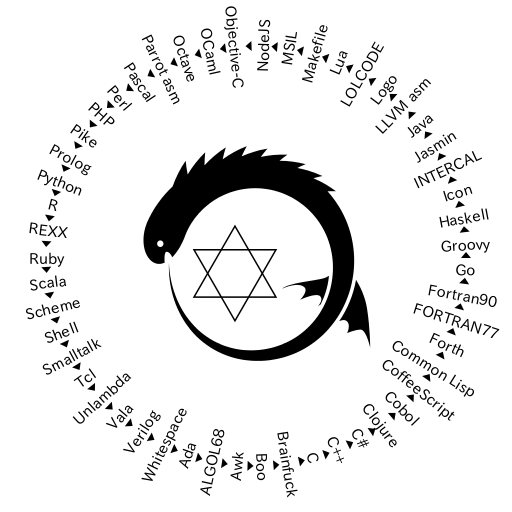
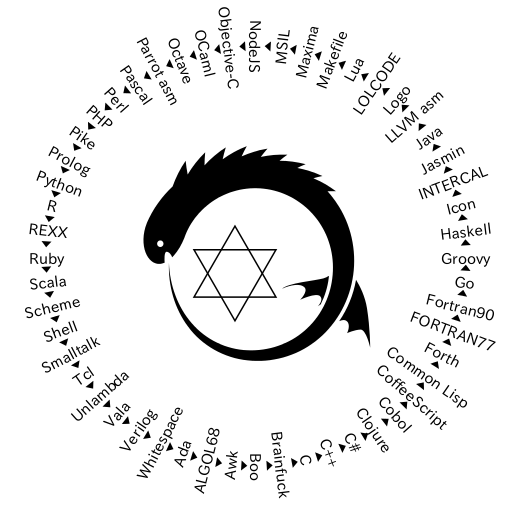
* the 52nd language: Maxima

Changed region(s): [[0.0312, 0.0, 0.9688, 0.9688], [0.0625, 0.4375, 0.0938, 0.4688]]

diff --git a/QR.rb b/QR.rb
@@ -20,34 +20,34 @@ trea                      m"}`n.method~public~static~ma!([L#{S="java/lang/"}SJ;)
 ack                     ~2`ngetstatic~#{S}Sy stem/out~L#$T;`nldc~"#{e[%(class~QR{pu             blic~static~v
 oid                    ~ma!(SJ[]v){SJ~c[]=n   ew~SJ[8000],y="",z=y,s="#{z=t=(0..r=q=1            26).map{|n|[
 n,                    []]};a="";b=->n{a<<(  n  %78+55)%84+42};(%(@s=global[#{i=(s=%(PR            ~"`x48AI^~1
-.2                   ~PR~"VISIBLE^~"#{Q["  Z"+  E[%(all:`n`t@Zf~%s~"#{e[%(.assembly~t{            }.method~st
-at       ic         ~void~MX{.entrypo!t~  ldstr  "#{e["require('util').Z#{E["#import"+M            ["Z_sJ"+E[
-"Z                 f"+E[%(say"#{e["#$D(  output)  ;beg!~H(#{((p="eval";%($_="#{s=%(<?php           ~function~
-f($               n){retur                                     n~str_repeat("Y",$n);};$f           ="f";echo#
-{V[Q        [E[  "!t~mX{H#{  E["qr:-  H('#{Q[e[%(fo  r~l~!#{  E[e[d[%(eval$s=%q(#$s))]]]}          .split("Yn
-"):Z(       'cat("say~Y"'+l+  'Y"Yn  ")'))],?']}')."  ]};re  turn~0;}"]],"{$f(",")}"]}?>)          ;(s+N*(-s.
-size%6))   .unpack("B*")[0].K  (/.  {6}/){n=$&.to_i~2  ;((  n+14)/26*6+n+47).chr}}";s|.|$          n=ord$&;su
-bstr~unpack(B8 ,chr$n-!t($n/32  )  *6-41),2|eg;Z~pack"  B  *",$_).scan(/[~,-:A-z]+|(.)/){          p="s++#{$1
-?"chr~#{$1.ord }+e":$&+?+};"+p}   ;p)).K(/.{1,255}/){|s   |"'#{s}',"}}'')end."]}"`nend)+N          ]]]]}"]}"c
-all~void~[msco rlib]System.Con  s  ole::Write(sJ)ret})  ]  }")].K(/[:"]/,":^0"),/[~     Y          `t;"(){}`[
-`]]/]}"~PR~"`x  4bT`x48`x58B`  x59  E~B`x59E)).size+1  }x~  i8]c"#{s.K(/               [          ^  "]/){"^%
-`x58"%$&.ord}}^ 00"declare~i  32@pu  ts(i8*)def!e~i3  2@mX{  %1=call~                  i          3   2@puts(
-i8*getelementpt  r([#{i}x~i  8]*@s,i  32~0,i32~0))r  et~i32~  0})).bytes{|n|          r          ,     z=z[n]
-||(b[r/78];b[r]; q<6083&&z                                     [n]=[q+=1,[]           ]          ;      t[n])
-};b[r/78];b[r]}"  ;!t~i=0,n=0,q=0;for(;  ++n<126  ;)c[n]=""+(char)n;for(;i< s.length (          )       ;){q=
-q*78+(s.charAt(i)  -13)%84;if(i++%2>0){y  =q<n?  c[q]:y;c[n++]=z+y.charAt(0);System .          o         ut.Z
-(z=c[q]);q=0;}}}})  ]}"`n!vokevirtual~#$T  /Zl  n(L#{S}SJ;)V`nreturn`n.end~method)+N          ]          };H(
-"DO,1<-#"||*s);s?wh  ile~t:=ord(move(1))do  {  i+:=1;u:=-i;every~0to~7do{u:=u*2+t%2          ;           t/:=
-2};H("PLEASE")^(i%4/   3);H("DO,1SUB#"||i||   "<-#"||((c-u)%256));c:=u;};H("PLEAS           E             REA
-DOUT,1^nPLEASEGIVEUP"   );end)]).tr(B,?&)]}' .tr('&','YY');)]};})]}"~DUP~FOR~S"~           &              A,&
-"~C~NE`x58T~S^"~&A)^",    &"~C~0~DO~B~."~&char("~COUNT~.~."~),&'"~CR~LOOP~S^"~           &^"^""~          C~S
-"~end~#$D"~C~A~."~STOP"~    CR~A~."~END"~CR~B`x59E~;~D~)]}"))],'#{f(',')}']}           ))]}"))["          ~~~
-~^"~^".""STOP~RUN."])](Zl      n(str"#{g*8}"s)))).tr~B,?`x7e]}.Replace("`            x7e","Y"));}})]};}"  ]]]
-,"$(f(","))"]};for~i~!~rang       e(len(s)):b~as~!t=s[i];a-=b;Z(('+'*-             a~if~0>a~else'-'*a)+'.  ')
-;a=b;).tr~B,?`x21]};K(/`x21/,"        Y",s);Z~s})]}"))]}");end~qr;               )]};!t~i,j;Z("module~QR;  !i
-tial~beg!~");for(i=0;i<s.length;             i++){Z("$H(^"                    ~~~");for(j=6;j>=0;j--)Z((s[i]>
->j)%2>0?"Yt":"~");Z("YnYtYn~~^`");")                                       ;}Z("$display(^"YnYn^");end~endmod
-ule");return~0;}].reverse],/[`[`]$]/],"[                              f~",?]]}"~^x60.&]k),?']}';cr"]]}")]}"))
-]};})).gsub(/[!HJKXYZ^`~]/){[B*2,:write,B,:trin                g,:gsub,"ain()",B*4,:print,g,:in][$&.ord%47%12
-]})))*"")#_buffer_for_future_bug_fixes_#_buffer_for_future_bug_fixes_#_buffer_for_future_bug_fixes_#_buffer_f
+.2                   ~PR~"VISIBLE^~"#{Q["  Z"+  E[%(all:`n`t@Zf~%s~"#{e["l!el:99999;Z#            {E[%(.assem
+bl       y~         t{}.method~static~vo  id~MX  {.entrypo!t~ldstr"#{e["require('util')            .Z#{E["#im
+po                 rt"+M["Z_sJ"+E["Zf"+  E[%(say  "#{e["#$D(output);beg!~H(#{((p="eval";           %($_="#{s=
+%(<               ?php~fun                                     ction~f($n){return~str_re           peat("Y",$
+n);}        ;$f  ="f";echo#  {V[Q[E[  "!t~mX{H#{E["  qr:-H('  #{Q[e[%(for~l~!#{E[e[d[%(ev          al$s=%q(#$
+s))]]       ]}.split("Yn"):Z  ('cat  ("say~Y"'+l+'Y"  Yn")'  ))],?']}')."]};return~0;}"]]          ,"{$f(",")
+}"]}?>);   (s+N*(-s.size%6)).  unp  ack("B*")[0].K(/.  {6}  /){n=$&.to_i~2;((n+14)/26*6+n          +47).chr}}
+";s|.|$n=ord$& ;substr~unpack(  B  8,chr$n-!t($n/32)*6  -  41),2|eg;Z~pack"B*",$_).scan(/          [~,-:A-z]+
+|(.)/){p="s++# {$1?"chr~#{$1.or   d}+e":$&+?+};"+p};p))   .K(/.{1,255}/){|s|"'#{s}',"}}''          )end."]}"`
+nend)+N]]]]}"] }"call~void~[ms  c  orlib]System.Consol  e  ::Write(sJ)ret})]};quit(     )          ;"]}")].K(
+/[:"]/,":^0"),  /[~Y`t;"(){}`  [`]  ]/]}"~PR~"`x4bT`x  48`  x58B`x59E~B`               x          5  9E)).siz
+e+1}x~i8]c"#{s. K(/[^"]/){"^  %`x58  "%$&.ord}}^00"d  eclar  e~i32@pu                  t          s   (i8*)de
+f!e~i32@mX{%1=c  all~i32@pu  ts(i8*g  etelementptr(  [#{i}x~  i8]*@s,i32~0,i          3          2     ~0))re
+t~i32~0})).bytes {|n|r,z=z                                     [n]||(b[r/78           ]          ;      b[r];
+q<6083&&z[n]=[q+  =1,[]];t[n])};b[r/78]  ;b[r]}"  ;!t~i=0,n=0,q=0;for(;++n< 126;)c[n ]          =       ""+(c
+har)n;for(;i<s.le  ngth();){q=q*78+(s.ch  arAt(  i)-13)%84;if(i++%2>0){y=q<n?c[q]:y ;          c         [n++
+]=z+y.charAt(0);Sy  stem.out.Z(z=c[q]);q=  0;}  }}})]}"`n!vokevirtual~#$T/Zln(L#{S}S          J          ;)V`
+nreturn`n.end~metho  d)+N]};H("DO,1<-#"||*  s  );s?while~t:=ord(move(1))do{i+:=1;u:          =           -i;e
+very~0to~7do{u:=u*2+   t%2;t/:=2};H("PLEASE   ")^(i%4/3);H("DO,1SUB#"||i||"<-#"||           (             (c-
+u)%256));c:=u;};H("PL   EASEREADOUT,1^nPLEAS EGIVEUP");end)]).tr(B,?&)]}'.tr('&'           ,              'YY
+');)]};})]}"~DUP~FOR~S    "~&A,&"~C~NE`x58T~S^"~&A)^",&"~C~0~DO~B~."~&char("~C           OUNT~.~          ."~
+),&'"~CR~LOOP~S^"~&^"^""    ~C~S"~end~#$D"~C~A~."~STOP"~CR~A~."~END"~CR~B`x5           9E~;~D~)]          }")
+)],'#{f(',')}']}))]}"))["      ~~~~^"~^".""STOP~RUN."])](Zln(str"#{g*8}"s            )))).tr~B,?`x7e]}.R  epl
+ace("`x7e","Y"));}})]};}"]]       ],"$(f(","))"]};for~i~!~range(len(s)             ):b~as~!t=s[i];a-=b;Z(  ('
++'*-a~if~0>a~else'-'*a)+'.');a        =b;).tr~B,?`x21]};K(/`x21/,"               Y",s);Z~s})]}"))]}");end  ~q
+r;)]};!t~i,j;Z("module~QR;!itial             ~beg!~");for(                    i=0;i<s.length;i++){Z("$H(^"~~~
+");for(j=6;j>=0;j--)Z((s[i]>>j)%2>0?                                       "Yt":"~");Z("YnYtYn~~^`");");}Z("$
+display(^"YnYn^");end~endmodule");return                              ~0;}].reverse],/[`[`]$]/],"[f~",?]]}"~^
+x60.&]k),?']}';cr"]]}")]}"))]};})).gsub(/[!HJKX                YZ^`~]/){[B*2,:write,B,:tring,:gsub,"ain()",B*
+4,:print,g,:in][$&.ord%47%12]})))*"")#_buffer_for_future_bug_fixes_#_buffer_for_future_bug_fixes_#_buffer_for
 ##################  Quine Relay -- Copyright (c) 2013 Yusuke Endoh (@mametter), @hirekoke  #################)

diff --git a/src/code-gen.rb b/src/code-gen.rb
@@ -186,6 +186,13 @@ class MSIL < CodeGen
   end
 end
 
+class Maxima < CodeGen
+  File = "QR.mac"
+  Cmd = "maxima -q --init-mac=QR.mac > OUTFILE"
+  Apt = "maxima"
+  Code = %q("linel:99999;print#{E[PREV]};quit();")
+end
+
 class Makefile < CodeGen
   File = "QR.makefile"
   Cmd = "make -f QR.makefile > OUTFILE"

diff --git a/README.md b/README.md
@@ -5,7 +5,7 @@
 This is a Ruby program that generates
 Scala program that generates
 Scheme program that generates
-...(through 51 languages in total)...
+...(through 52 languages in total)...
 REXX program that generates
 the original Ruby code again.
 
@@ -25,9 +25,9 @@ First, you have to type the following apt-get command to install all of them.
     $ sudo apt-get install algol68g bash bf boo clisp clojure1.4 cmake \
       coffeescript f2c fp-compiler g++ gauche gawk gcc gforth gfortran ghc \
       gnat gnu-smalltalk gobjc golang groovy icont iconx intercal iverilog \
-      jasmin-sable llvm lua5.2 make mono-devel mono-mcs nodejs ocaml octave \
-      open-cobol openjdk-6-jdk parrot perl php5-cli pike7.8 python r-base \
-      regina-rexx ruby2.0 scala swi-prolog tcl ucblogo valac
+      jasmin-sable llvm lua5.2 make maxima mono-devel mono-mcs nodejs ocaml \
+      octave open-cobol openjdk-6-jdk parrot perl php5-cli pike7.8 python \
+      r-base regina-rexx ruby2.0 scala swi-prolog tcl ucblogo valac
 
 Then, you have to build the bundled interpreters.
 
@@ -80,7 +80,8 @@ If you could do it, please let me know.  Good luck.
     $ logo QR.logo > QR.lol
     $ vendor/lci-*/lci QR.lol > QR.lua
     $ lua QR.lua > QR.makefile
-    $ make -f QR.makefile > QR.il
+    $ make -f QR.makefile > QR.mac
+    $ maxima -q --init-mac=QR.mac > QR.il
     $ ilasm QR.il && mono QR.exe > QR.js
     $ nodejs QR.js > QR.m
     $ gcc -o QR QR.m && ./QR > QR.ml
@@ -153,20 +154,21 @@ For other languages, I used the following deb packages:
 35 |LOLCODE      |(none)         |-
 36 |Lua          |lua5.2         |5.2.3-1
 37 |Makefile     |make           |3.81-8.2ubuntu3
-38 |MSIL         |mono-devel     |3.2.8+dfsg-4ubuntu1
-39 |NodeJS       |nodejs         |0.10.25~dfsg2-2ubuntu1
-40 |Objective-C  |gobjc          |4:4.8.2-1ubuntu6
-41 |OCaml        |ocaml          |4.01.0-3ubuntu3
-42 |Octave       |octave         |3.8.1-1ubuntu1
-43 |Parrot asm   |parrot         |5.9.0-1build1
-44 |Pascal       |fp-compiler    |2.6.2-8
-45 |Perl         |perl           |5.18.2-2ubuntu1
-46 |PHP          |php5-cli       |5.5.9+dfsg-1ubuntu4.4
-47 |Pike         |pike7.8        |7.8.700-7
-48 |Prolog       |swi-prolog     |6.6.4-2ubuntu1
-49 |Python       |python         |2.7.5-5ubuntu3
-50 |R            |r-base         |3.0.2-1ubuntu1
-51 |REXX         |regina-rexx    |3.6-2
+38 |Maxima       |maxima         |5.32.1-1
+39 |MSIL         |mono-devel     |3.2.8+dfsg-4ubuntu1
+40 |NodeJS       |nodejs         |0.10.25~dfsg2-2ubuntu1
+41 |Objective-C  |gobjc          |4:4.8.2-1ubuntu6
+42 |OCaml        |ocaml          |4.01.0-3ubuntu3
+43 |Octave       |octave         |3.8.1-1ubuntu1
+44 |Parrot asm   |parrot         |5.9.0-1build1
+45 |Pascal       |fp-compiler    |2.6.2-8
+46 |Perl         |perl           |5.18.2-2ubuntu1
+47 |PHP          |php5-cli       |5.5.9+dfsg-1ubuntu4.4
+48 |Pike         |pike7.8        |7.8.700-7
+49 |Prolog       |swi-prolog     |6.6.4-2ubuntu1
+50 |Python       |python         |2.7.5-5ubuntu3
+51 |R            |r-base         |3.0.2-1ubuntu1
+52 |REXX         |regina-rexx    |3.6-2
 
 Note: `CC=tcc ick -bfO` may be used to compile INTERCAL sources
 with less memory.
